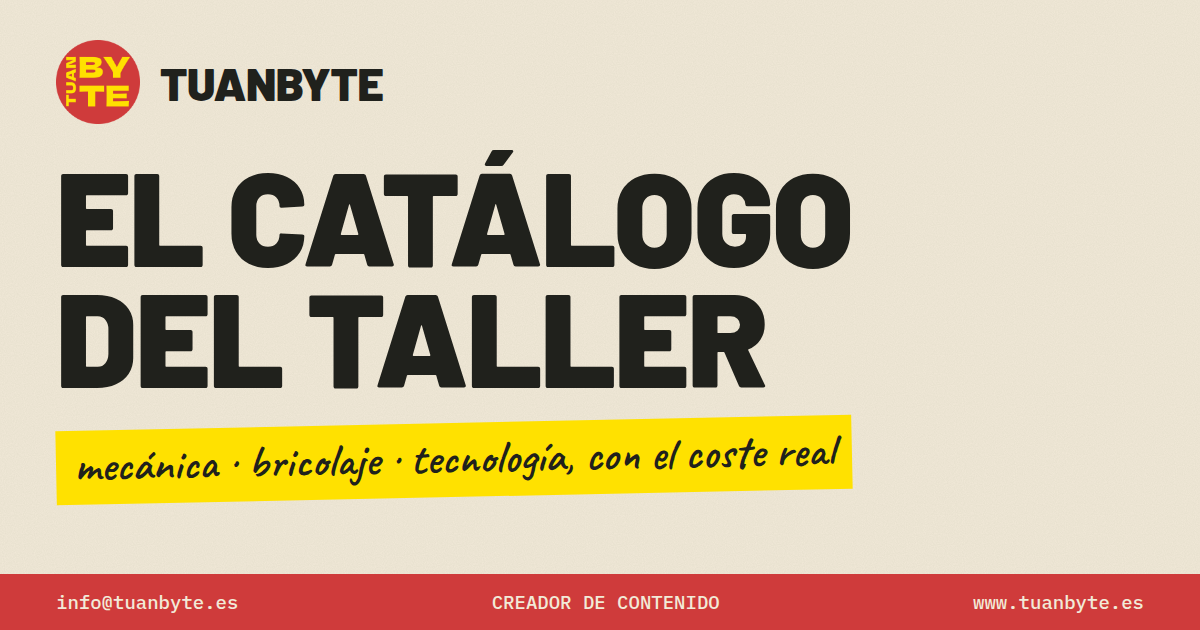
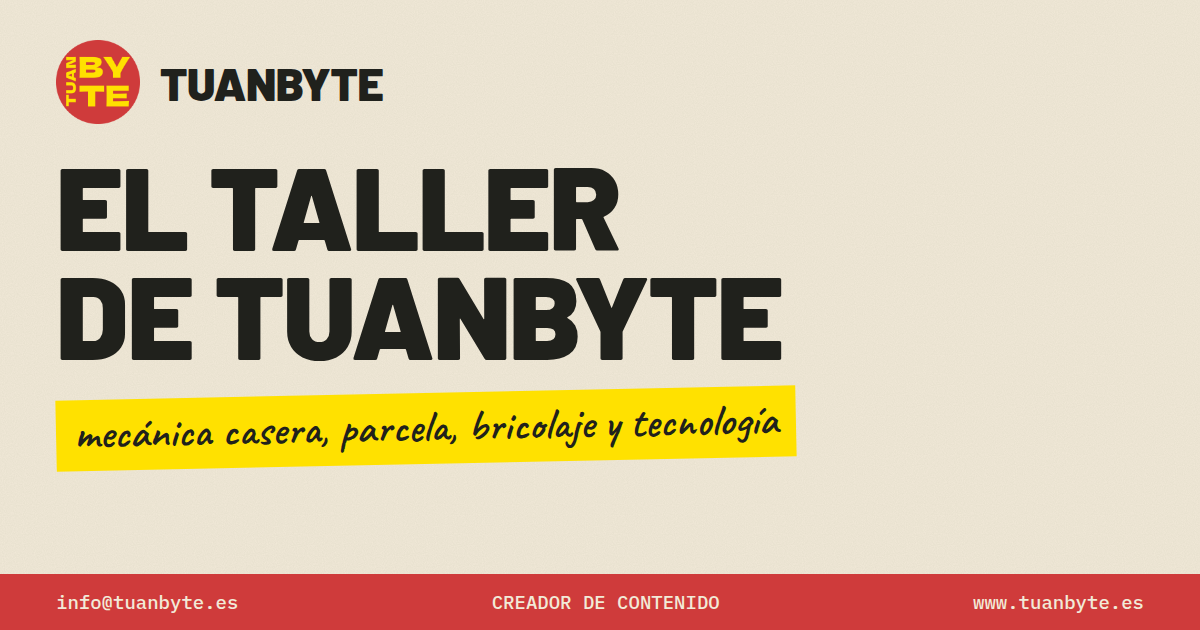
Hero: titular 'El taller de Tuanbyte' y meta title con los pilares (OG y metadatos coherentes)

Changed region(s): [[0.0308, 0.2413, 0.7092, 0.8143]]

diff --git a/DESIGN.md b/DESIGN.md
@@ -1,5 +1,5 @@
 ---
-name: Tuanbyte — el catálogo del taller
+name: El taller de Tuanbyte
 description: Catálogo de ferretería de barrio del año 1994 para el canal Tuanbyte — papel crema con veta, tinta de imprenta, minio rojo para los actos comerciales y cinta amarilla en las etiquetas.
 colors:
   paper: "#f2ead8"
@@ -55,7 +55,7 @@ components:
     textColor: "{colors.minium}"
 ---
 
-# Design System: Tuanbyte — el catálogo del taller
+# Design System: El taller de Tuanbyte
 
 ## Overview
 

diff --git a/README.md b/README.md
@@ -1,4 +1,4 @@
-# Tuanbyte — el catálogo del taller
+# El taller de Tuanbyte
 
 [![Astro](https://img.shields.io/badge/Astro-5-BC52EE?logo=astro&logoColor=white)](https://astro.build)
 [![Tailwind CSS](https://img.shields.io/badge/Tailwind_CSS-4-06B6D4?logo=tailwindcss&logoColor=white)](https://tailwindcss.com)
